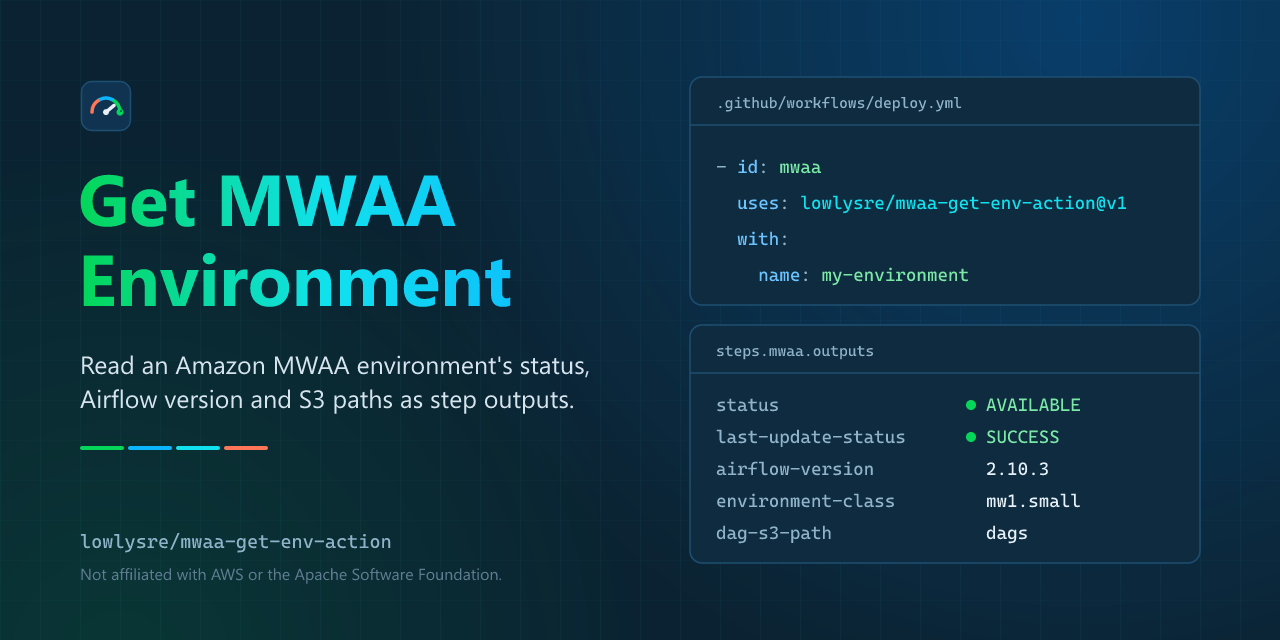
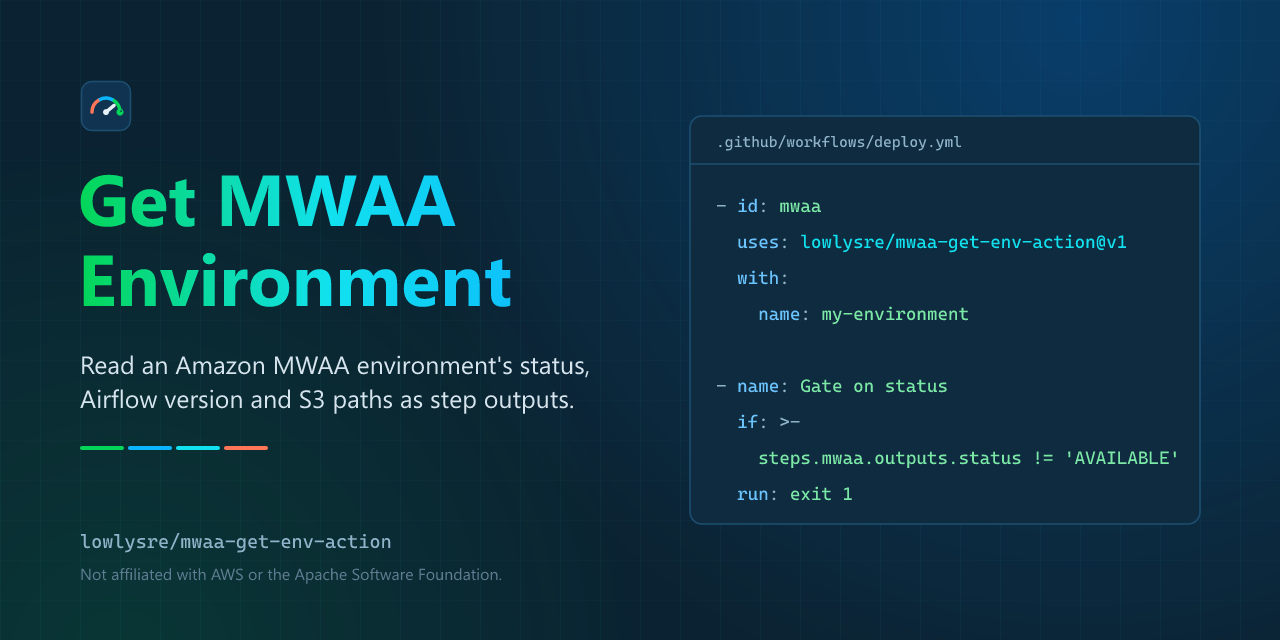
Drop the outputs panel from the hero card; show a gate step in a single workflow card

diff --git a/README.md b/README.md
@@ -1,5 +1,5 @@
 <p align="center">
-  <img src="docs/public/social-card.png" alt="Get MWAA Environment: a workflow step that reads an Amazon MWAA environment, and the status, Airflow version and S3 outputs it sets" width="720">
+  <img src="docs/public/social-card.png" alt="Get MWAA Environment: a workflow that reads an Amazon MWAA environment, then gates the next step on its status output" width="720">
 </p>
 
 <p align="center">
